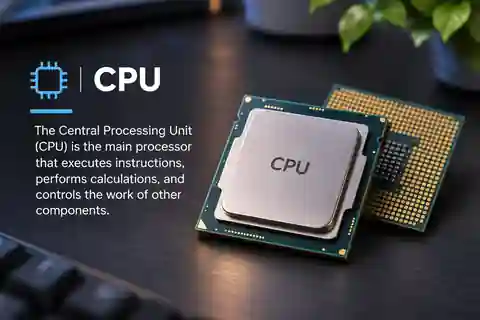
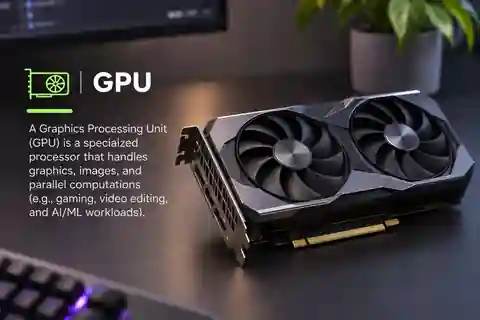
Fix swapped CPU and GPU art and fit showcase images edge to edge

diff --git a/archive/experiments/hardware-showcase/index.html b/archive/experiments/hardware-showcase/index.html
@@ -1,6 +1,6 @@
 <!doctype html>
 <html lang="en"><head><meta charset="utf-8"><meta name="viewport" content="width=device-width,initial-scale=1,viewport-fit=cover"><meta name="theme-color" content="#000000"><title>Computer Systems — GradStudio</title><style>
-*{box-sizing:border-box}html{color-scheme:dark;background:#000;scroll-behavior:smooth}body{margin:0;background:#000;color:#f5f5f7;font-family:-apple-system,BlinkMacSystemFont,"Segoe UI",Arial,sans-serif;line-height:1.5;-webkit-text-size-adjust:100%}a{color:#a1caff;text-decoration:none}button{font:inherit;cursor:pointer;-webkit-tap-highlight-color:transparent}button:focus-visible,a:focus-visible{outline:3px solid #8ebcff;outline-offset:4px}header{border-bottom:1px solid #252527}nav{max-width:1080px;margin:auto;display:flex;align-items:center;justify-content:space-between;gap:12px;padding:13px 24px}.brand{color:#f5f5f7;font-size:17px;font-weight:700;letter-spacing:-.4px}.brand span{color:#a7a1ff;margin-right:5px}nav a:last-child{font-size:13px;color:#b8b8c0}main{max-width:1080px;margin:auto;padding:58px 32px 65px;text-align:center}.eyebrow{color:#a9a9b2;font-size:12px;letter-spacing:.12em;font-weight:650;margin-bottom:15px}h1{font-size:clamp(33px,5.15vw,64px);letter-spacing:-.052em;line-height:1.08;font-weight:700;margin:0 auto;max-width:880px;text-wrap:balance}.intro{color:#a7a7af;max-width:770px;font-size:clamp(16px,2.05vw,23px);line-height:1.55;margin:25px auto 46px;letter-spacing:-.018em}.intro strong{color:#f5f5f7;font-weight:650}.media{margin:0 auto;position:relative;overflow:hidden;isolation:isolate;width:100%;aspect-ratio:16/9;background:radial-gradient(ellipse at 50% 47%,#292a32,#151518 75%);border-radius:26px;display:grid;place-items:center}.media img{display:block;position:absolute;inset:0;width:100%;height:100%;object-fit:contain;transition:opacity .25s;opacity:0}.media img.loaded{opacity:1}.media img.cover{object-fit:cover}.fallback{position:absolute;inset:0;display:grid;place-items:center;padding:20px;color:#aaa;font-size:14px}.fallback svg{width:min(58%,340px);height:auto;opacity:.9}.media:has(img.loaded) .fallback{visibility:hidden}.tabswrap{max-width:100%;margin:28px auto 0;display:flex;justify-content:center}.tabs{display:inline-flex;max-width:100%;min-width:0;background:#303032;border-radius:100px;padding:4px;gap:2px;overflow-x:auto;scrollbar-width:none;overscroll-behavior-x:contain}.tabs::-webkit-scrollbar{display:none}.tabs button{flex:0 0 auto;white-space:nowrap;padding:10px clamp(12px,2vw,26px);border:0;border-radius:100px;background:transparent;color:#d1d1d5;font-size:15px;font-weight:500;line-height:1.2;transition:color .2s,background .2s}.tabs button[aria-selected=true]{background:#f5f5f7;color:#151516;box-shadow:0 1px 5px #0003}.copy{margin:30px auto 0;max-width:650px;min-height:155px;animation:enter .3s ease}.copy p{margin:0;color:#aaaab1;font-size:clamp(16px,2vw,21px);line-height:1.55;letter-spacing:-.015em}.copy strong{color:#f5f5f7;font-weight:680}.credit{font-size:11px;color:#888891;margin:15px auto 0}.credit a{color:#a0a0a8;text-decoration:underline;text-underline-offset:2px}.footer{margin:38px auto 0;max-width:980px;border-top:1px solid #222;padding:16px 0;font-size:12px;color:#85858c;display:flex;justify-content:space-between;gap:10px;text-align:left}@keyframes enter{from{opacity:.35;transform:translateY(5px)}to{opacity:1;transform:translateY(0)}}@media(max-width:600px){nav{padding:12px 16px}.brand{font-size:15px}nav a:last-child{font-size:11px}main{padding:36px 16px 28px}.eyebrow{font-size:10px;margin-bottom:12px}h1{font-size:clamp(30px,8.2vw,45px)}.intro{font-size:16px;line-height:1.55;margin:20px auto 30px;max-width:490px}.media{border-radius:18px;aspect-ratio:16/9}.tabswrap{margin-top:20px}.tabs{width:max-content;max-width:100%;padding:3px;gap:0}.tabs button{padding:9px clamp(7px,2vw,12px);font-size:clamp(11px,3.25vw,14px)}.copy{margin-top:24px;min-height:150px;max-width:100%;padding:0 8px}.copy p{font-size:16px;line-height:1.6}.footer{margin-top:24px}.credit{font-size:10px;overflow-wrap:anywhere}}@media(prefers-reduced-motion:reduce){*,*::before,*::after{animation:none!important;transition:none!important;scroll-behavior:auto!important}}
+*{box-sizing:border-box}html{color-scheme:dark;background:#000;scroll-behavior:smooth}body{margin:0;background:#000;color:#f5f5f7;font-family:-apple-system,BlinkMacSystemFont,"Segoe UI",Arial,sans-serif;line-height:1.5;-webkit-text-size-adjust:100%}a{color:#a1caff;text-decoration:none}button{font:inherit;cursor:pointer;-webkit-tap-highlight-color:transparent}button:focus-visible,a:focus-visible{outline:3px solid #8ebcff;outline-offset:4px}header{border-bottom:1px solid #252527}nav{max-width:1080px;margin:auto;display:flex;align-items:center;justify-content:space-between;gap:12px;padding:13px 24px}.brand{color:#f5f5f7;font-size:17px;font-weight:700;letter-spacing:-.4px}.brand span{color:#a7a1ff;margin-right:5px}nav a:last-child{font-size:13px;color:#b8b8c0}main{max-width:1080px;margin:auto;padding:58px 32px 65px;text-align:center}.eyebrow{color:#a9a9b2;font-size:12px;letter-spacing:.12em;font-weight:650;margin-bottom:15px}h1{font-size:clamp(33px,5.15vw,64px);letter-spacing:-.052em;line-height:1.08;font-weight:700;margin:0 auto;max-width:880px;text-wrap:balance}.intro{color:#a7a7af;max-width:770px;font-size:clamp(16px,2.05vw,23px);line-height:1.55;margin:25px auto 46px;letter-spacing:-.018em}.intro strong{color:#f5f5f7;font-weight:650}.media{margin:0 auto;position:relative;overflow:hidden;isolation:isolate;width:100%;aspect-ratio:var(--image-ratio,3/2);background:radial-gradient(ellipse at 50% 47%,#292a32,#151518 75%);border-radius:26px;display:grid;place-items:center}.media img{display:block;position:absolute;inset:0;width:100%;height:100%;object-fit:contain;opacity:0}.media img.loaded{opacity:1}.media img.cover{object-fit:contain}.fallback{position:absolute;inset:0;display:grid;place-items:center;padding:20px;color:#aaa;font-size:14px}.fallback svg{width:min(58%,340px);height:auto;opacity:.9}.media:has(img.loaded) .fallback{visibility:hidden}.tabswrap{max-width:100%;margin:28px auto 0;display:flex;justify-content:center}.tabs{display:inline-flex;max-width:100%;min-width:0;background:#303032;border-radius:100px;padding:4px;gap:2px;overflow-x:auto;scrollbar-width:none;overscroll-behavior-x:contain}.tabs::-webkit-scrollbar{display:none}.tabs button{flex:0 0 auto;white-space:nowrap;padding:10px clamp(12px,2vw,26px);border:0;border-radius:100px;background:transparent;color:#d1d1d5;font-size:15px;font-weight:500;line-height:1.2;transition:color .2s,background .2s}.tabs button[aria-selected=true]{background:#f5f5f7;color:#151516;box-shadow:0 1px 5px #0003}.copy{margin:30px auto 0;max-width:650px;min-height:155px;animation:enter .3s ease}.copy p{margin:0;color:#aaaab1;font-size:clamp(16px,2vw,21px);line-height:1.55;letter-spacing:-.015em}.copy strong{color:#f5f5f7;font-weight:680}.credit{font-size:11px;color:#888891;margin:15px auto 0}.credit a{color:#a0a0a8;text-decoration:underline;text-underline-offset:2px}.footer{margin:38px auto 0;max-width:980px;border-top:1px solid #222;padding:16px 0;font-size:12px;color:#85858c;display:flex;justify-content:space-between;gap:10px;text-align:left}@keyframes enter{from{opacity:.35;transform:translateY(5px)}to{opacity:1;transform:translateY(0)}}@media(max-width:600px){nav{padding:12px 16px}.brand{font-size:15px}nav a:last-child{font-size:11px}main{padding:36px 16px 28px}.eyebrow{font-size:10px;margin-bottom:12px}h1{font-size:clamp(30px,8.2vw,45px)}.intro{font-size:16px;line-height:1.55;margin:20px auto 30px;max-width:490px}.media{border-radius:18px;aspect-ratio:var(--image-ratio,3/2)}.tabswrap{margin-top:20px}.tabs{width:max-content;max-width:100%;padding:3px;gap:0}.tabs button{padding:9px clamp(7px,2vw,12px);font-size:clamp(11px,3.25vw,14px)}.copy{margin-top:24px;min-height:150px;max-width:100%;padding:0 8px}.copy p{font-size:16px;line-height:1.6}.footer{margin-top:24px}.credit{font-size:10px;overflow-wrap:anywhere}}@media(prefers-reduced-motion:reduce){*,*::before,*::after{animation:none!important;transition:none!important;scroll-behavior:auto!important}}
 </style></head><body><header><nav><a class="brand" href="../apple-homepage/"><span>◈</span>GradStudio</a><a href="../apple-homepage/#beyond">Computer Systems</a></nav></header><main><div class="eyebrow">COMPUTER SYSTEMS</div><h1>Understand computer systems<br>from the ground up.</h1><p class="intro">Start with Linux, then explore processors, graphics cards, memory, storage and motherboards. Understand how software and hardware work together to power <strong>everything you build.</strong></p><section aria-label="Computer systems visual explorer"><div class="media" id="media"><div class="fallback" id="fallback"></div><img id="photo" alt=""></div><div class="tabswrap"><div class="tabs" role="tablist" aria-label="Computer systems topics" id="tabs"></div></div><div class="copy" id="description" role="tabpanel" tabindex="0" aria-live="polite"></div><p class="credit" id="credit"></p></section><div class="footer"><span>GradStudio · Visual learning experiment</span><a href="../apple-homepage/">Explore subjects ↗</a></div></main>
 <script>
 const commons='https://commons.wikimedia.org/wiki/File:',thumb='https://thumb.wikimedia.org/wikipedia/commons/thumb/';
@@ -12,9 +12,27 @@ const items=[
 {label:'Storage',local:'assets/storage.webp',localAlt:'Hard disk drive and NVMe solid-state drive on a warm-lit desk',file:'WesterDigital-Black-NVMe-SSD.jpg',img:thumb+'3/3d/WesterDigital-Black-NVMe-SSD.jpg/960px-WesterDigital-Black-NVMe-SSD.jpg',author:'Kent Madsen',license:'2.0',alt:'NVMe solid-state drive installed inside a computer',title:'Your data stays even when the power goes off.',text:'Storage preserves files, applications and operating systems. Solid-state drives use flash memory, while hard drives use rotating magnetic disks. When you open an application, its required instructions and data are brought into RAM for processing.',cover:true},
 {label:'Motherboard',local:'assets/motherboard.webp',localAlt:"Desktop motherboard with CPU socket and expansion slots",file:'Computer_motherboard.jpg',img:'https://upload.wikimedia.org/wikipedia/commons/6/68/Computer_motherboard.jpg',author:'Kurt Kaiser',license:'CC0',alt:'Motherboard installed inside a desktop computer',title:"The foundation of a computer.",text:"The motherboard connects the CPU, RAM, storage and expansion devices, providing communication pathways and power distribution.",cover:false}
 ];
-const tabs=document.getElementById('tabs'),photo=document.getElementById('photo'),copy=document.getElementById('description'),credit=document.getElementById('credit'),fallback=document.getElementById('fallback');let active=0,request=0;
+const media=document.getElementById('media'),tabs=document.getElementById('tabs'),photo=document.getElementById('photo'),copy=document.getElementById('description'),credit=document.getElementById('credit'),fallback=document.getElementById('fallback');let active=0,request=0;
 function diagram(i){if(items[i].label==='Linux')return '<svg viewBox="0 0 300 190" aria-hidden="true"><rect x="20" y="24" width="260" height="142" rx="10" fill="#17191f" stroke="#727786"/><path d="M20 49H280" stroke="#727786"/><g font-family="monospace" font-size="13" fill="#9ed8a2"><text x="36" y="76">$ uname -s</text><text x="36" y="98" fill="#ddd">Linux</text><text x="36" y="126">$ ls</text><text x="36" y="148" fill="#ddd">projects  documents</text></g></svg>';i--;let body='';if(i===1){body='<rect x="30" y="35" width="240" height="120" rx="10" fill="#343640" stroke="#7c7d8b"/><g fill="#16171c" stroke="#777c92" stroke-width="2"><circle cx="100" cy="95" r="44"/><circle cx="200" cy="95" r="44"/></g>';for(const x of [100,200]){for(let a=0;a<8;a++)body+='<path d="M'+x+' 95 q-15 -28 12 -38 q15 15 -12 38" fill="#565b71" transform="rotate('+(a*45)+' '+x+' 95)"/>';body+='<circle cx="'+x+'" cy="95" r="12" fill="#adb1c0"/>'}}else if(i===2){body='<rect x="22" y="57" width="256" height="75" rx="8" fill="#33654b" stroke="#789c80"/>';for(let j=0;j<8;j++)body+='<rect x="'+(35+j*30)+'" y="70" width="23" height="42" rx="3" fill="#171b1b"/>'}else if(i===3){body='<rect x="38" y="55" width="224" height="80" rx="7" fill="#24483e"/><rect x="65" y="70" width="70" height="50" rx="4" fill="#191b22"/><rect x="145" y="70" width="80" height="50" rx="4" fill="#191b22"/>'}else{body='<rect x="65" y="20" width="170" height="150" rx="12" fill="#38494c" stroke="#7e9196"/><rect x="90" y="40" width="120" height="110" rx="9" fill="#a8a9ad" stroke="#ddd"/><rect x="106" y="57" width="88" height="77" rx="4" fill="#6d747e"/>';if(i===4)body+='<path d="M40 40H85M40 60H85M215 40H260M215 65H260M40 135H85M215 135H260" stroke="#baaa75" stroke-width="5"/>'}return '<svg viewBox="0 0 300 190" aria-hidden="true">'+body+'</svg>';}
-function select(i,focus=false){active=i;const p=items[i],token=++request;[...tabs.children].forEach((b,j)=>{b.setAttribute('aria-selected',String(i===j));b.tabIndex=i===j?0:-1;if(focus&&i===j)b.focus()});copy.setAttribute('aria-labelledby','tab-'+i);copy.innerHTML='<p><strong>'+p.title+'</strong> '+p.text+'</p>';copy.style.animation='none';void copy.offsetWidth;copy.style.animation='';fallback.innerHTML=diagram(i);function show(src,local){if(token!==request)return;photo.className=(!local&&p.cover)?'cover':'';photo.alt=local?p.localAlt:(p.alt||p.localAlt);credit.textContent='';photo.onload=()=>{if(token!==request)return;photo.classList.add('loaded');if(local){credit.textContent='AI-generated educational illustration';}else{const license=p.license==='CC0'?'https://creativecommons.org/publicdomain/zero/1.0/':'https://creativecommons.org/licenses/by-sa/'+p.license+'/';credit.innerHTML='Photo: <a href="'+commons+p.file+'" target="_blank" rel="noopener">'+p.author+'</a> · <a href="'+license+'" target="_blank" rel="noopener">'+(p.license==='CC0'?'CC0':'CC BY-SA '+p.license)+'</a>';}};photo.onerror=()=>{if(token!==request)return;photo.classList.remove('loaded');if(local&&p.img)show(p.img,false);else credit.textContent='Illustrative diagram';};photo.src=src;}if(p.local)show(p.local,true);else show(p.img,false);}
+function select(i,focus=false){active=i;const p=items[i],token=++request;[...tabs.children].forEach((b,j)=>{b.setAttribute('aria-selected',String(i===j));b.tabIndex=i===j?0:-1;if(focus&&i===j)b.focus()});copy.setAttribute('aria-labelledby','tab-'+i);copy.innerHTML='<p><strong>'+p.title+'</strong> '+p.text+'</p>';copy.style.animation='none';void copy.offsetWidth;copy.style.animation='';fallback.innerHTML=diagram(i);
+media.style.setProperty('--image-ratio',(p.label==='RAM'||p.label==='Storage')?'16/9':'3/2');
+photo.className='';photo.removeAttribute('src');photo.alt=p.localAlt||p.alt;credit.textContent='';
+function show(src,local){
+ if(token!==request)return;
+ const next=new Image();
+ next.onload=()=>{
+  if(token!==request)return;
+  media.style.setProperty('--image-ratio',next.naturalWidth+'/'+next.naturalHeight);
+  photo.alt=local?p.localAlt:(p.alt||p.localAlt);
+  photo.src=next.src;photo.classList.add('loaded');
+  if(local){credit.textContent='AI-generated educational illustration';}
+  else{const license=p.license==='CC0'?'https://creativecommons.org/publicdomain/zero/1.0/':'https://creativecommons.org/licenses/by-sa/'+p.license+'/';credit.innerHTML='Photo: <a href="'+commons+p.file+'" target="_blank" rel="noopener">'+p.author+'</a> · <a href="'+license+'" target="_blank" rel="noopener">'+(p.license==='CC0'?'CC0':'CC BY-SA '+p.license)+'</a>';}
+ };
+ next.onerror=()=>{if(token!==request)return;if(local&&p.img)show(p.img,false);else credit.textContent='Illustrative diagram';};
+ next.src=src;
+}
+if(p.local)show(p.local+'?v=fit2',true);else show(p.img,false);
+}
 
 items.forEach((p,i)=>{const b=document.createElement('button');b.type='button';b.id='tab-'+i;b.setAttribute('role','tab');b.setAttribute('aria-controls','description');b.textContent=p.label;b.addEventListener('click',()=>select(i));tabs.append(b)});tabs.addEventListener('keydown',e=>{let n=active;if(e.key==='ArrowRight')n=(active+1)%items.length;else if(e.key==='ArrowLeft')n=(active+items.length-1)%items.length;else if(e.key==='Home')n=0;else if(e.key==='End')n=items.length-1;else return;e.preventDefault();select(n,true)});let start=0,y=0;document.getElementById('media').addEventListener('touchstart',e=>{start=e.touches[0].clientX;y=e.touches[0].clientY},{passive:true});document.getElementById('media').addEventListener('touchend',e=>{const dx=e.changedTouches[0].clientX-start,dy=e.changedTouches[0].clientY-y;if(Math.abs(dx)>45&&Math.abs(dx)>Math.abs(dy)*1.5)select((active+(dx<0?1:-1)+items.length)%items.length)},{passive:true});select(0);
 </script></body></html>
